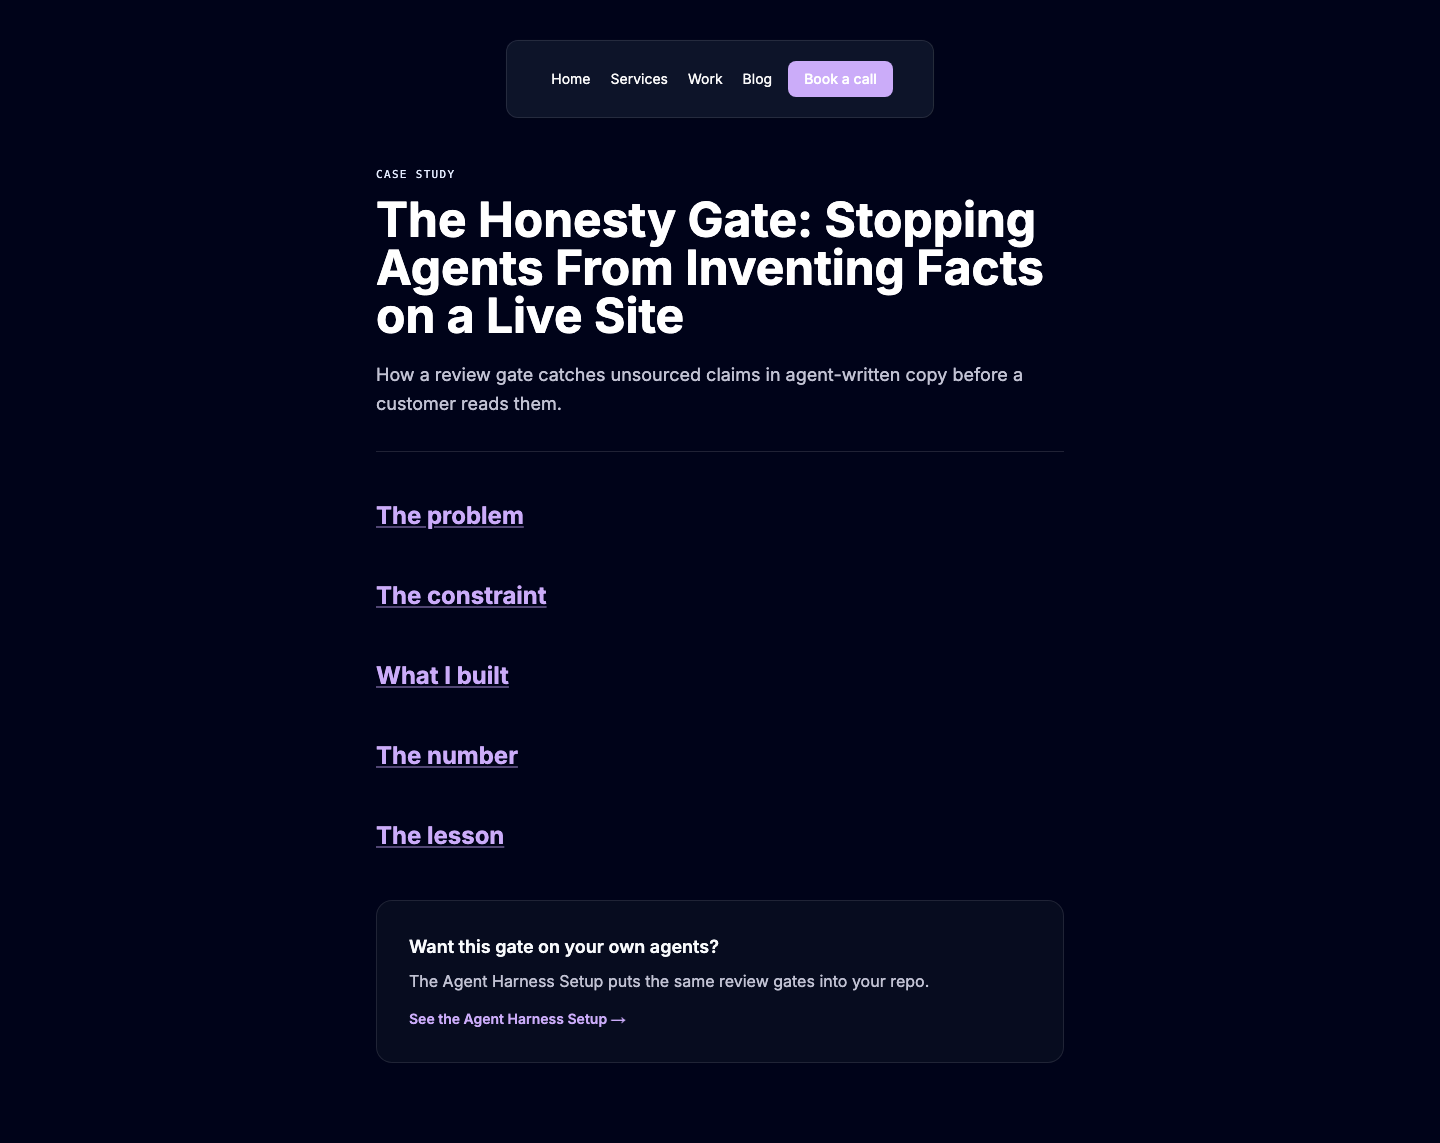
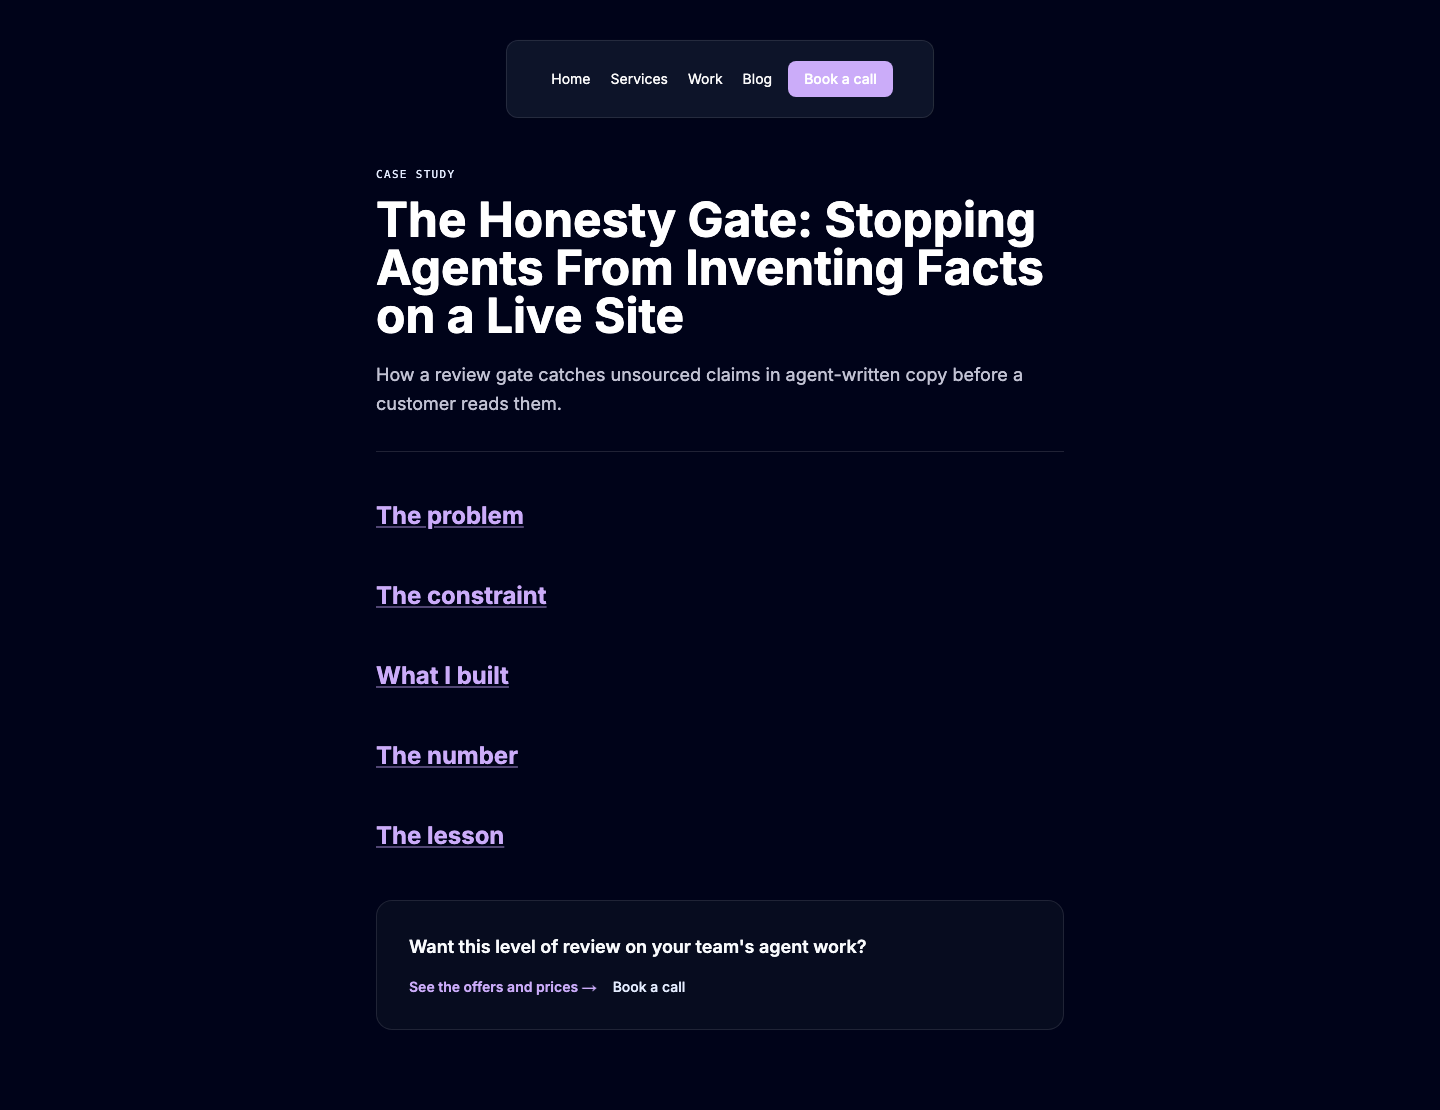
♻ refactor(#31): move honesty gate into loader, generic CTA
The build now fails when a published post holds TODO(adi). Drafts 404 on
the page itself, the case-study CTA adds a Calendly link, and the card
grid fits two cards.

diff --git a/app/work/[slug]/page.tsx b/app/work/[slug]/page.tsx
@@ -3,6 +3,7 @@ import Link from "next/link";
 import { notFound } from "next/navigation";
 import { getPost, getPosts, WORK_DIR } from "@/lib/blog";
 import MDXContent from "@/components/blog/MDXContent";
+import { CalendlyLink } from "@/components/CalendlyLink";
 import { FloatingNav } from "@/components/ui/FloatingNav";
 
 const workNavItems = [
@@ -61,6 +62,8 @@ export default async function CaseStudyPage({ params }: CaseStudyPageProps) {
   } catch {
     notFound();
   }
+  // Defense in depth: drafts never render, even if dynamicParams changes.
+  if (!study.frontmatter.published) notFound();
 
   const studyUrl = `https://www.adrian-rusan.com/work/${slug}`;
 
@@ -111,17 +114,22 @@ export default async function CaseStudyPage({ params }: CaseStudyPageProps) {
 
           <aside className="mt-12 rounded-2xl border border-white/10 bg-black-200/40 p-6 md:p-8">
             <p className="text-lg font-semibold">
-              Want this gate on your own agents?
+              Want this level of review on your team&apos;s agent work?
             </p>
-            <p className="text-white-200 mt-2">
-              The Agent Harness Setup puts the same review gates into your repo.
-            </p>
-            <Link
-              href="/services"
-              className="inline-block mt-4 text-sm font-semibold text-purple hover:underline underline-offset-4"
-            >
-              See the Agent Harness Setup →
-            </Link>
+            <div className="flex flex-wrap items-center gap-4 mt-4">
+              <Link
+                href="/services"
+                className="text-sm font-semibold text-purple hover:underline underline-offset-4"
+              >
+                See the offers and prices →
+              </Link>
+              <CalendlyLink
+                source="work"
+                className="text-sm font-medium text-blue-100 hover:text-purple transition-colors"
+              >
+                Book a call
+              </CalendlyLink>
+            </div>
           </aside>
         </article>
       </div>

diff --git a/__tests__/blog.test.ts b/__tests__/blog.test.ts
@@ -69,11 +69,19 @@ describe("case studies (content/work via the dir param)", () => {
 });
 
 describe("case-study honesty guard", () => {
-  it("never publishes a case study that still holds a TODO(adi)", async () => {
-    const studies = await getPosts(WORK_DIR);
-    for (const { slug } of studies) {
-      const { source } = await getPost(slug, WORK_DIR);
-      expect(source).not.toContain("TODO(adi)");
-    }
+  it("fails the build when a published case study still holds a TODO(adi)", async () => {
+    const fs = await import("fs");
+    const os = await import("os");
+    const path = await import("path");
+    const dir = fs.mkdtempSync(path.join(os.tmpdir(), "work-"));
+    fs.writeFileSync(
+      path.join(dir, "draft.mdx"),
+      '---\ntitle: "t"\ndescription: "d"\ndate: "2026-10-10"\ntags: []\npublished: true\n---\n\n{/* TODO(adi): fill */}\n',
+    );
+    await expect(getPosts(dir)).rejects.toThrow(/TODO\(adi\)/);
+  });
+
+  it("does not throw for the unpublished honesty-gate draft", async () => {
+    await expect(getPosts(WORK_DIR)).resolves.toBeDefined();
   });
 });

diff --git a/lib/blog.ts b/lib/blog.ts
@@ -57,9 +57,18 @@ export async function getPosts(dir = BLOG_DIR): Promise<BlogPost[]> {
         frontmatter: data as BlogFrontmatter,
         readingTime: rt.text,
         headings,
+        content,
       };
     })
-    .filter((post) => post.frontmatter.published)
+    .filter((post) => {
+      if (!post.frontmatter.published) return false;
+      // Honesty gate: fail the build rather than publish unfinished copy.
+      if (post.content.includes("TODO(adi)")) {
+        throw new Error(`Published ${post.slug} still contains TODO(adi)`);
+      }
+      return true;
+    })
+    .map(({ content: _content, ...post }) => post)
     .sort(
       (a, b) =>
         new Date(b.frontmatter.date).getTime() -

diff --git a/components/CaseStudyCards.tsx b/components/CaseStudyCards.tsx
@@ -42,7 +42,9 @@ const CaseStudyCards = async () => {
         >
           Proof from documented runs
         </h2>
-        <ul className="grid gap-5 md:grid-cols-3 mt-8">
+        <ul
+          className={`grid gap-5 mt-8 ${cards.length > 2 ? "md:grid-cols-3" : "md:grid-cols-2"}`}
+        >
           {cards.map((card) => (
             <li key={card.href}>
               <Link
